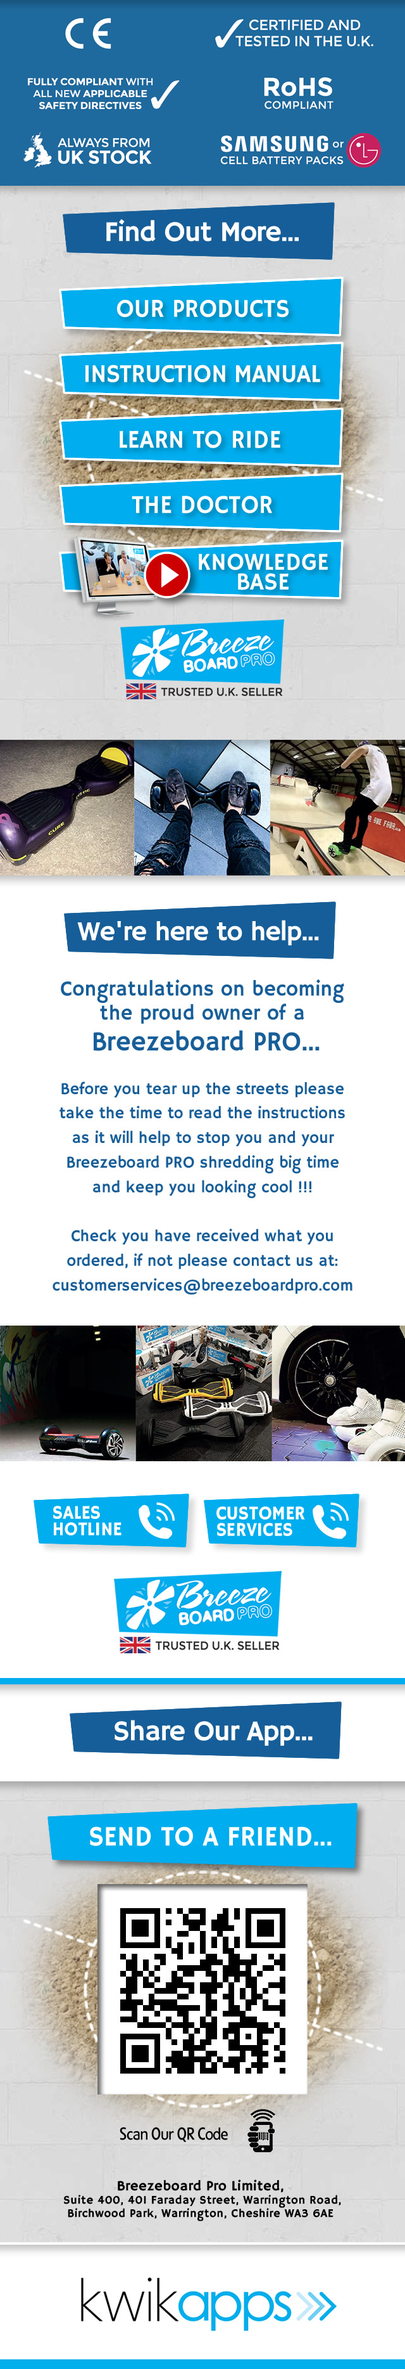
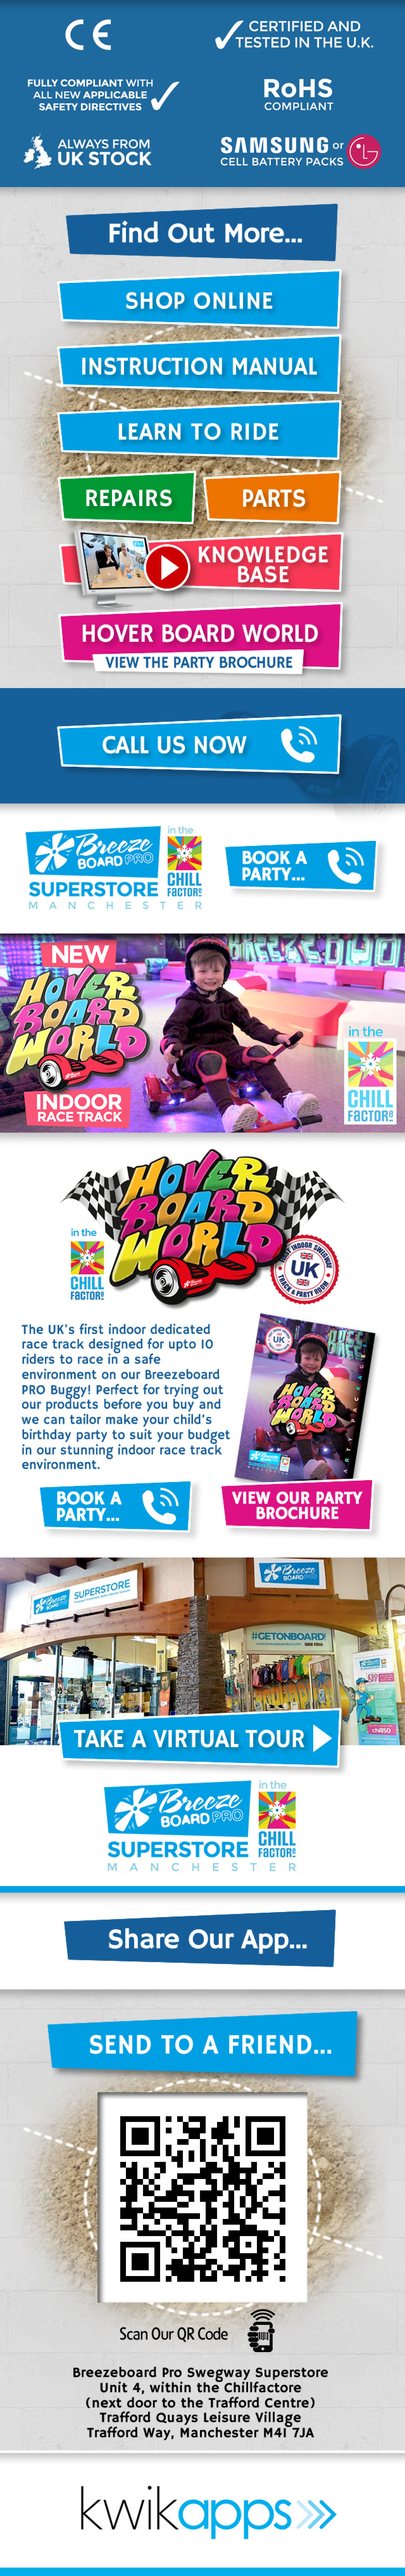
New Version

diff --git a/index.html b/index.html
@@ -236,16 +236,20 @@ outline-width: 0;
 }
 
 figure:nth-child(1) {
-   animation: xfade 24s 18s infinite;
+   animation: xfade 30s 24s infinite;
 }
 figure:nth-child(2) {
-   animation: xfade 24s 12s infinite;
+   animation: xfade 30s 18s infinite;
 }
 figure:nth-child(3) {
-   animation: xfade 24s 6s infinite;
+   animation: xfade 30s 12s infinite;
 }
 figure:nth-child(4) {
-   animation: xfade 24s 0s infinite;
+   animation: xfade 30s 6s infinite;
+}
+	
+figure:nth-child(5) {
+   animation: xfade 30s 0s infinite;
 }
 
 @keyframes xfade{
@@ -284,28 +288,21 @@ figure:nth-child(4) {
 
 <div id="apDiv1">
   <div id="content"><img src="images/homepage-top.png" alt="" width="640" height="1290" usemap="#Map8" />
-    <map name="Map8" id="Map8"><area shape="rect" coords="330,1165,584,1261" href="tel:01925909140" alt="" /><area shape="rect" coords="61,1166,317,1260" href="tel:01925909140" alt="" /><area shape="circle" coords="486,797,51" onclick="window.open('https://www.instagram.com/BREEZEBOARDPRO/','_blank','location=yes');" alt="" /><area shape="circle" coords="157,797,51" onclick="window.open('https://breezeboardpro.com','_blank','location=yes');" alt="" />
+    <map name="Map8" id="Map8"><area shape="circle" coords="486,797,51" onclick="window.open('https://www.instagram.com/BREEZEBOARDPRO/','_blank','location=yes');" alt="" /><area shape="circle" coords="151,797,51" onclick="window.open('https://breezeboardpro.com','_blank','location=yes');" alt="" />
     
-    <area shape="rect" coords="361,646,581,741" onclick="window.open('https://www.google.co.uk/maps/place/Risley,+Warrington+WA3+6GA/@53.4251003,-2.5262097,17z/data=!3m1!4b1!4m2!3m1!1s0x487b011e25a93083:0xb50e012844abebbc');" alt="" />
+    <area shape="rect" coords="361,646,581,741" onclick="window.open('https://www.google.co.uk/maps/place/Breezeboard+PRO+Swegway+Shop/@53.46778,-2.361254,15z/data=!4m5!3m4!1s0x0:0xbd7fc1f63da23d15!8m2!3d53.46778!4d-2.361254','_blank','location=yes');" alt="" />
     
     <area shape="circle" coords="377,797,51" onclick="window.open('https://twitter.com/BREEZEBOARDPRO','_blank','location=yes');" alt="" />
     
-    <area shape="circle" coords="266,797,51" onclick="window.open('https://www.facebook.com/BreezeBoardPro/','_blank','location=yes');" alt="" />
+    <area shape="circle" coords="264,797,51" onclick="window.open('https://www.facebook.com/BreezeBoardPro/','_blank','location=yes');" alt="" />
     <area shape="rect" coords="68,646,341,740" href="tel:01925909140" alt="" />
     </map>
-    <a href="https://breezeboardpro.com/shop/" target="_blank"><img src="http://www.kwikapps.co.uk/breezeboard-pro/offers/breezeboard-offers.gif" alt="" width="640" height="654"/></a><img src="images/homepage-bottom.jpg" alt="" width="640" height="3737" usemap="#Map" />
-  <map name="Map" id="Map"><area shape="rect" coords="320,2359,572,2447" href="tel:01925909140" alt="" /><area shape="rect" coords="79,646,562,738" href="#two" alt="" /><area shape="rect" coords="80,439,563,531" href="#one" alt="" />
-    <area shape="rect" coords="78,544,561,636" onclick="window.open('http://www.breezeboardpro.com/breezeboard_manual.pdf','_system','location=yes');" alt="" />
-    <area shape="rect" coords="77,856,560,948" onclick="window.open('https://breezeboardpro.com/knowledge-base/','_blank','location=yes');" alt="" />
-    <area shape="rect" coords="51,2360,303,2448" href="tel:01925909140" alt="" />
-    <area shape="rect" coords="78,2848,569,2950" href="javascript:mailpage()" alt="" />
-    
-    
-    
-    <area shape="rect" coords="7,3544,635,3736" onclick="window.open('http://www.kwikapps.co.uk','_blank','location=yes');" alt="" />
-    
-    <area shape="rect" coords="76,749,559,841" href="#three" alt="" />
-  
+    <a href="https://breezeboardpro.com/shop/" target="_blank"><img src="http://www.kwikapps.co.uk/breezeboard-pro/offers/breezeboard-offers.gif" alt="" width="640" height="654"/></a><img src="images/homepage-bottom.jpg" alt="" width="640" height="4062" usemap="#Map" />
+  <map name="Map" id="Map"><area shape="rect" coords="86,2683,547,2794" onclick="window.open('https://www.google.com/maps/@53.4687112,-2.361412,3a,78.3y,54.29h,88.98t/data=!3m6!1e1!3m4!1sYJCCITPhBOUAAAQvxQvQJQ!2e0!7i10760!8i5380','_blank','location=yes');" alt="" /><area shape="rect" coords="346,2332,606,2420" onclick="window.open('https://breezeboardpro.com/wp-content/uploads/2018/06/hbw-brochure-download.pdf','_system','location=yes');" alt="" /><area shape="rect" coords="324,737,561,830" onclick="window.open('https://breezeboardpro.com/spare-parts/','_system','location=yes');" alt="" /><area shape="rect" coords="78,737,311,825" onclick="window.open('https://breezeboardpro.com/swegway-repair-service/','_system','location=yes');" alt="" /><area shape="rect" coords="78,427,561,519" onclick="window.open('http://www.breezeboardpro.com/shop/','_system','location=yes');" alt="" /><area shape="rect" coords="76,3171,567,3273" href="javascript:mailpage()" alt="" /><area shape="rect" coords="80,1117,547,1226" href="tel:01925909140" alt="" /><area shape="rect" coords="354,1321,606,1409" href="tel:01925909141" alt="" /><area shape="rect" coords="77,950,559,1067" onclick="window.open('https://breezeboardpro.com/wp-content/uploads/2018/06/hbw-brochure-download.pdf','_system','location=yes');" alt="" /><area shape="rect" coords="79,633,562,725" href="#two" alt="" />
+    <area shape="rect" coords="78,529,561,621" onclick="window.open('http://www.breezeboardpro.com/breezeboard_manual.pdf','_system','location=yes');" alt="" />
+    <area shape="rect" coords="77,840,560,932" onclick="window.open('https://breezeboardpro.com/knowledge-base/','_blank','location=yes');" alt="" />
+    <area shape="rect" coords="58,2333,310,2421" href="tel:01925909141" alt="" />
+    <area shape="rect" coords="4,3863,632,4055" onclick="window.open('http://www.kwikapps.co.uk','_blank','location=yes');" alt="" />
   </map>
   </div>
   
@@ -326,6 +323,10 @@ figure:nth-child(4) {
     <img src="images/image4.jpg" width="640" height="1136" /> 
     
   </figure> 
+  <figure> 
+    <img src="images/image5.jpg" width="640" height="1136" /> 
+    
+  </figure> 
 
 </div>
   
@@ -342,22 +343,7 @@ figure:nth-child(4) {
 <!-- Start of second page: #one -->
 <div data-role="page" id="one">
 
-  <div data-role="header">
-	  <div id="apDiv2">
-  <div id="content"><img src="images/our-products.jpg" alt="" width="640" height="4276" usemap="#Map2" /img />
-    <map name="Map2" id="Map2"><area shape="rect" coords="21,3988,298,4101" href="tel:01925909140" alt="" /><area shape="rect" coords="308,3989,612,4102" onclick="window.open('https://breezeboardpro.com/product-category/accessories/','_blank','location=yes');" alt="" /><area shape="rect" coords="24,3183,301,3296" href="tel:01925909140" alt="" /><area shape="rect" coords="311,3184,615,3297" onclick="window.open('https://breezeboardpro.com/product-category/venom-monster/','_blank','location=yes');" alt="" /><area shape="rect" coords="24,2375,301,2488" href="tel:01925909140" alt="" /><area shape="rect" coords="311,2376,615,2489" onclick="window.open('https://breezeboardpro.com/product-category/classic-monster/','_blank','location=yes');" alt="" /><area shape="rect" coords="26,1568,303,1681" href="tel:01925909140" alt="" /><area shape="rect" coords="313,1569,617,1682" onclick="window.open('https://breezeboardpro.com/product-category/venom/','_blank','location=yes');" alt="" /><area shape="rect" coords="314,767,618,880" onclick="window.open('https://breezeboardpro.com/product-category/classic/','_blank','location=yes');" alt="" /><area shape="rect" coords="27,766,304,879" href="tel:01925909140" alt="" />
-    
-    <area shape="rect" coords="4,4146,634,4262" href="#home" alt="" />
-
-      
-      <area shape="rect" coords="6,13,636,129" href="#home" alt="" />
-    </map>
-  </div>
-
-
-  </div>
-		
-  </div>
+  <div data-role="header"></div>
 	<!-- /content -->
 
 </div><!-- /page one -->
@@ -395,29 +381,7 @@ figure:nth-child(4) {
 <!-- Start of Four page: #three -->
 <div data-role="page" id="three">
 
-  <div data-role="header">
-
-
-
-<div id="apDiv4">
-  <div id="content"><img src="images/the-doctor.jpg" alt="" width="640" height="3143" usemap="#Map4" /img />
-    <map name="Map4" id="Map4"><area shape="rect" coords="25,2856,298,2962" href="tel:01925909140" alt="" /><area shape="rect" coords="307,2856,617,2964" onclick="window.open('http://www.kwikapps.co.uk/breezeboard-pro/enquiry/enquiry.html','_blank','location=yes');" alt="" /><area shape="rect" coords="308,634,618,742" onclick="window.open('http://www.kwikapps.co.uk/breezeboard-pro/enquiry/enquiry.html','_blank','location=yes');" alt="" />
-      <area shape="rect" coords="26,634,299,740" href="tel:01925909140" alt="" />
-      
-      
-   
-    
-      
-      <area shape="rect" coords="5,10,636,130" href="#home" alt="" />
-      
-      <area shape="rect" coords="5,3002,630,3140" href="#home" alt="" />
-     
-   
-    </map>
-  </div>
-  
-  </div>
-  </div>
+  <div data-role="header"></div>
 	<!-- /header -->
   <!-- /content -->
 </div>
